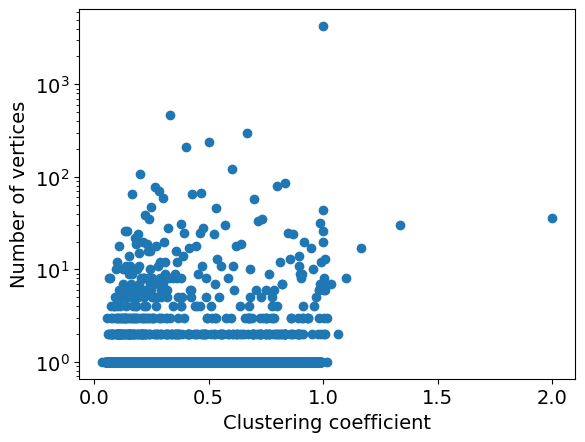
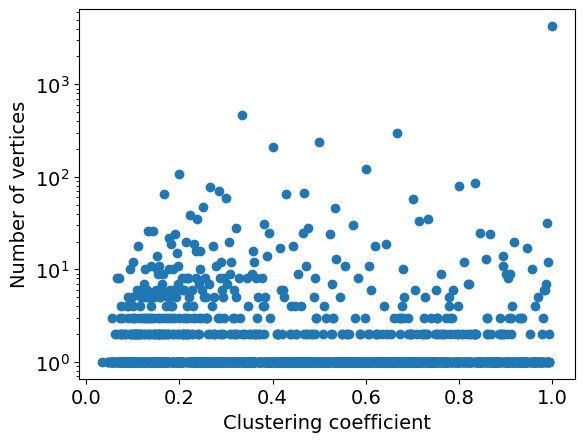
Don't graph weird clustering coeff that are greater than 1

diff --git a/graphBLAS/plot.py b/graphBLAS/plot.py
@@ -62,9 +62,15 @@ def plotClusteringCoeff(file, graph):
   with open(file) as f:
     f.readline()
     r = reader(f)
+    bad = 0
     for node, coef in r:
       coef = float(coef)
+      if coef > 1.0:
+        bad += 1
+        continue
       clustering.append(coef)
+  if bad > 0:
+    print(graph, "bad", bad)
   plot_distribution(clustering, xlabel='Clustering coefficient',
                   ylabel='Number of vertices', title='Clustering coefficient distributions',
                   xlog=False, ylog=True, showLine=False,
